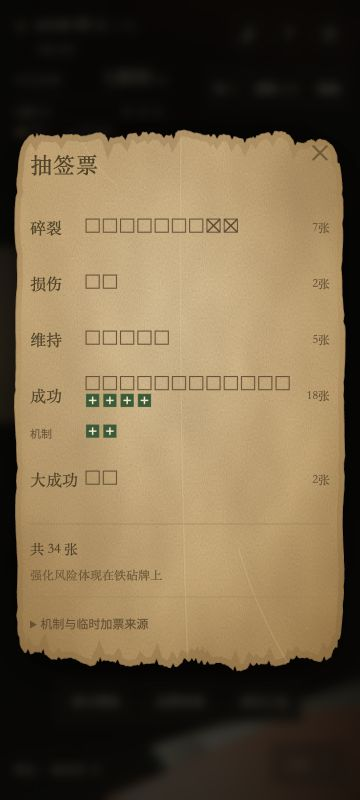
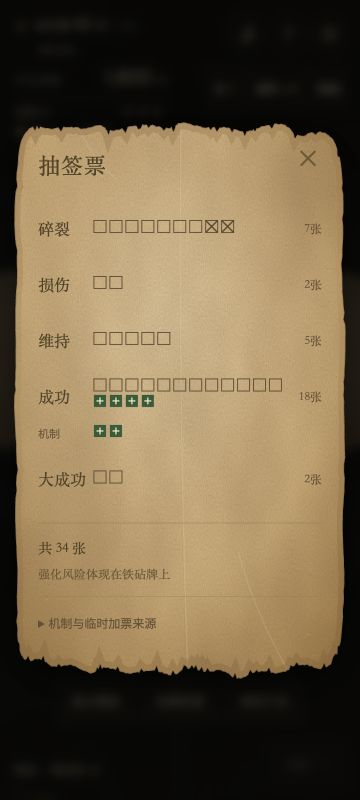
Inset ticket content from hand-cut hide edges

diff --git a/src/mobile.css b/src/mobile.css
@@ -5,7 +5,7 @@
 .touch-ui #station-panel.ticket-station button{font-size:12px;padding:9px 13px}
 #modal.ticket-sheet-modal{width:min(650px,calc(100% - 28px));background:var(--ticket-hide-background) center/100% 100% no-repeat;border:0;color:#514326;padding:36px;box-shadow:none;filter:drop-shadow(0 12px 22px #000b)}
 #modal.ticket-sheet-modal h2{color:#514326;letter-spacing:2px;margin-bottom:24px;font:500 24px 'Noto Serif SC','Songti SC',serif}
-.ticket-sheet-modal .modal-eyebrow:empty{display:none}.ticket-sheet-modal .modal-close{color:#6e5935}
+.ticket-sheet-modal .modal-eyebrow:empty{display:none}#modal.ticket-sheet-modal .modal-close{color:#6e5935;right:18px;top:18px}
 .ticket-sheet{font-family:'Noto Serif SC','Songti SC',STSong,Georgia,serif;color:#514326}
 .ticket-sheet-row{display:grid;grid-template-columns:66px minmax(0,1fr)40px;align-items:center;gap:10px;min-height:54px;margin:8px 0}
 .ticket-sheet-label{font-size:19px;white-space:nowrap}.ticket-sheet-total{text-align:right;font-size:14px;color:#6a5235;font-variant-numeric:tabular-nums;white-space:nowrap}
@@ -13,7 +13,8 @@
 .ticket-sheet-mechanic{display:grid;grid-template-columns:66px minmax(0,1fr)40px;align-items:center;gap:10px;margin:-5px 0 12px}.ticket-sheet-mechanic>small{font:11px 'Noto Sans SC',sans-serif;color:#6f583a}
 .ticket-sheet-footer{border-top:1px solid #927b4b77;margin-top:20px;padding-top:14px;font-size:16px}.ticket-sheet-footer small{display:block;margin-top:7px;font-size:12px;color:#6f5634;line-height:1.6}
 .ticket-sheet-modal .ticket-mechanisms{border-color:#927b4b55}.ticket-sheet-modal .ticket-mechanisms>summary{color:#665132}.ticket-sheet-modal .ticket-source{border-color:#927b4b44}.ticket-sheet-modal .ticket-source b{color:#514326}.ticket-sheet-modal .ticket-source small,.ticket-sheet-modal .note{color:#7b6846!important}
-@media(max-width:560px){#modal.ticket-sheet-modal{padding:32px 24px}.ticket-sheet-row,.ticket-sheet-mechanic{grid-template-columns:48px minmax(0,1fr)30px;gap:6px}.ticket-sheet-label{font-size:16px}.ticket-sheet-total{font-size:12px}.ticket-sheet-row{min-height:48px}.ticket-sheet-footer{font-size:14px}}
+.touch-ui #modal.ticket-sheet-modal{padding:32px 26px}
+@media(max-width:560px){.ticket-sheet-row,.ticket-sheet-mechanic{grid-template-columns:48px minmax(0,1fr)30px;gap:6px}.ticket-sheet-label{font-size:16px}.ticket-sheet-total{font-size:12px}.ticket-sheet-row{min-height:48px}.ticket-sheet-footer{font-size:14px}}
 @media(max-height:520px) and (orientation:landscape){.touch-ui #station-panel.ticket-station{bottom:calc(22px + var(--safe-bottom))}}
 .ticket-square-scroll{display:block;max-height:90px;overflow:auto;overscroll-behavior:contain}
 .ticket-squares{display:block;max-width:100%;margin:auto}

diff --git a/src/ticket-board.js b/src/ticket-board.js
@@ -7,22 +7,23 @@ const ink='#59462c';
 const hideSurface=parchmentSurface(1600,800,'ticket-wall-hide');
 function boardArt(snapshot){
   const rows=ticketRows(snapshot),total=rows.reduce((sum,row)=>sum+row.total,0);
+  const left=140,right=1460;
   let body=hideSurface;
-  body+=svgText('抽签票',68,49,{size:34,color:ink,anchor:'start',weight:400});
-  body+=svgText(snapshot?.active?snapshot.swordName??'铁砧上的剑':'铁砧未放剑',1518,49,{size:25,color:'#826c49',anchor:'end',weight:400});
+  body+=svgText('抽签票',left,92,{size:34,color:ink,anchor:'start',weight:400});
+  body+=svgText(snapshot?.active?snapshot.swordName??'铁砧上的剑':'铁砧未放剑',right,92,{size:25,color:'#826c49',anchor:'end',weight:400});
   rows.forEach((row,index)=>{
-    const y=103+index*104;
-    body+=svgText(row.label,68,y+25,{size:40,color:ink,anchor:'start',weight:400});
-    body+=ticketRowGlyphs(row,{id:row.id,x:310,y,width:1050,height:50,size:26});
-    body+=svgText(row.total,1518,y+25,{size:32,color:ink,anchor:'end',weight:400});
+    const y=140+index*90;
+    body+=svgText(row.label,left,y+25,{size:40,color:ink,anchor:'start',weight:400});
+    body+=ticketRowGlyphs(row,{id:row.id,x:375,y,width:970,height:50,size:26});
+    body+=svgText(row.total,right,y+25,{size:32,color:ink,anchor:'end',weight:400});
     if(row.mechanicAdded){
-      body+=svgText('机制',253,y+66,{size:18,color:'#6c7146',anchor:'start',weight:400});
-      body+=ticketRowGlyphs(row,{id:row.id,part:'mechanic',x:310,y:y+53,width:1050,height:28,size:20});
+      body+=svgText('机制',318,y+66,{size:18,color:'#6c7146',anchor:'start',weight:400});
+      body+=ticketRowGlyphs(row,{id:row.id,part:'mechanic',x:375,y:y+53,width:970,height:28,size:20});
     }
   });
-  body+='<path d="M68 652Q800 657 1518 653" fill="none" stroke="#7a6442" stroke-width="2"/>';
-  body+=svgText(`共 ${total} 张`,68,693,{size:33,color:ink,anchor:'start',weight:400});
-  body+=svgText('强化风险体现在铁砧牌上',68,748,{size:25,color:'#71573a',anchor:'start',weight:400});
+  body+=`<path d="M${left} 620Q800 625 ${right} 620" fill="none" stroke="#7a6442" stroke-width="2"/>`;
+  body+=svgText(`共 ${total} 张`,left,663,{size:33,color:ink,anchor:'start',weight:400});
+  body+=svgText('强化风险体现在铁砧牌上',left,713,{size:25,color:'#71573a',anchor:'start',weight:400});
   return body;
 }
 
